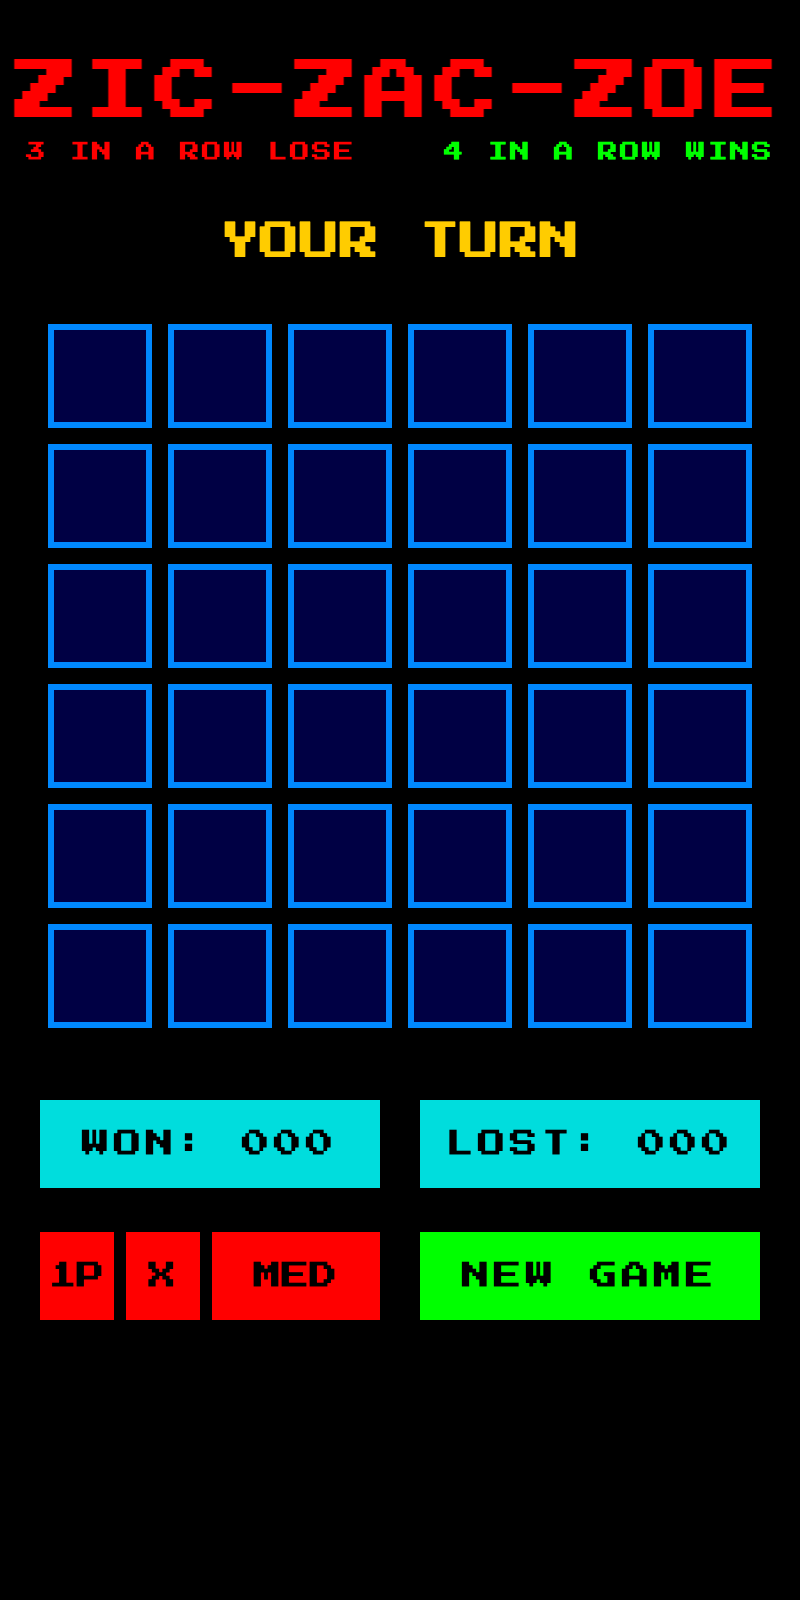
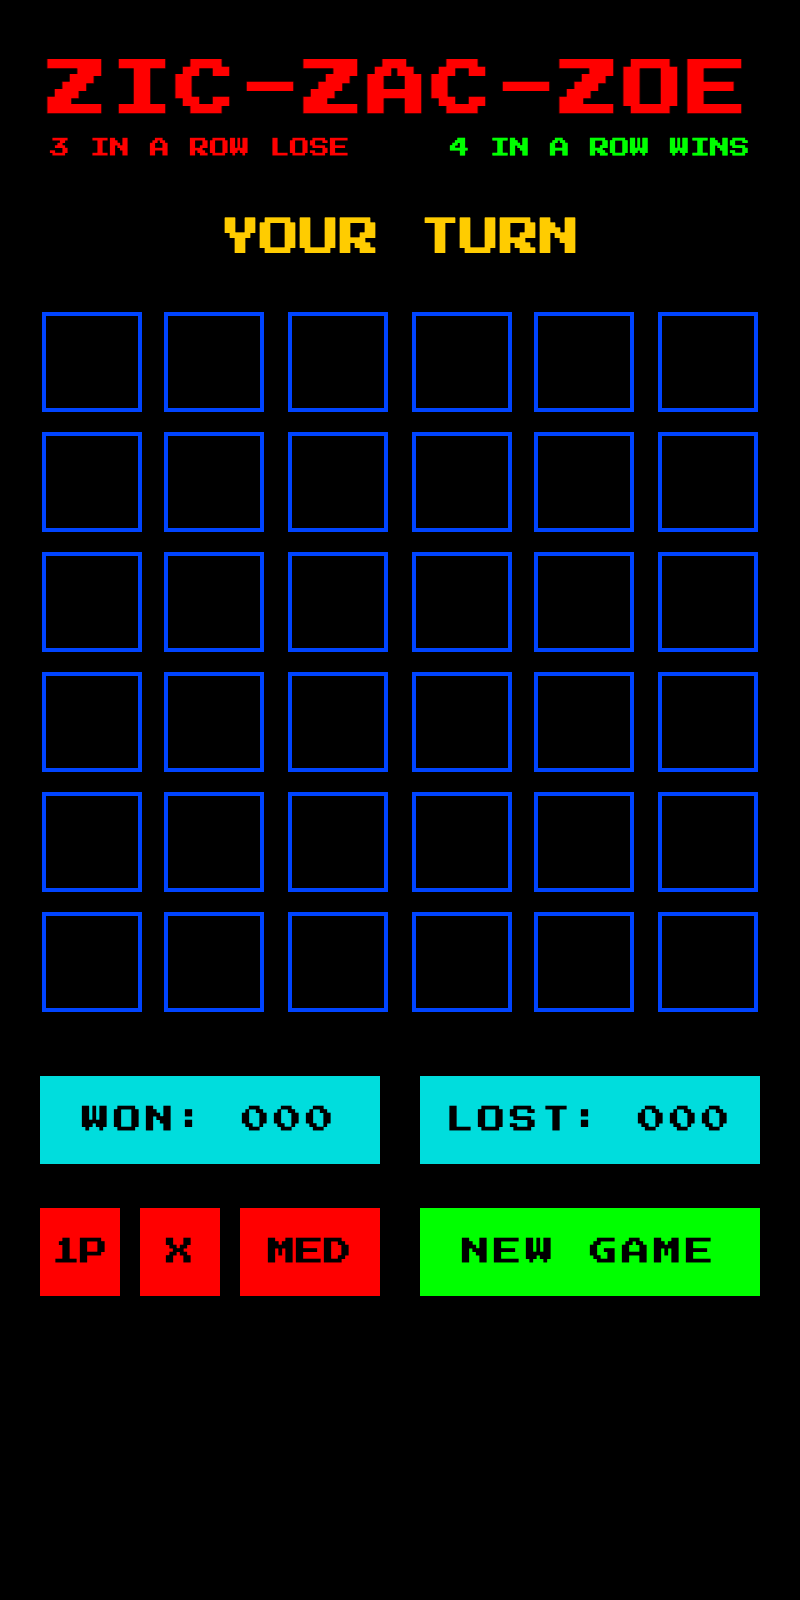
buard update for visual communication of game state; minor layout tweaks

diff --git a/web/style.css b/web/style.css
@@ -16,11 +16,10 @@
   --color-turn: #ffcc00;
   --color-dim: #444444;
   --color-dim-light: #666666;
-  --color-cell-bg: #000044;
-  --color-cell-border: #0088ff;
+  --color-cell-bg: #000000;
+  --color-cell-border: #0044ff;
   --color-x: #00ffff;
   --color-o: #ffff00;
-  --color-btn-green: #00cc00;
   --color-stats-bg: #00dddd;
   --color-stats-text: #000000;
   --color-mode-icon: #ff0000;
@@ -66,19 +65,20 @@ body {
 
 .header {
   text-align: center;
+  width: 360px;
 }
 
 .title {
-  font-size: 32px;
+  font-size: 30px;
   color: var(--color-title);
-  letter-spacing: 3px;
+  letter-spacing: 2px;
   white-space: nowrap;
 }
 
 .subtitle {
   font-size: 10px;
   margin-top: 6px;
-  letter-spacing: 1px;
+  letter-spacing: 0px;
   line-height: 1.6;
   white-space: nowrap;
 }
@@ -97,12 +97,14 @@ body {
 
 .status {
   font-size: 20px;
-  min-height: 50px;
+  height: 50px;
+  width: 360px;
   display: flex;
   align-items: center;
   justify-content: center;
   text-align: center;
-  padding: 8px;
+  box-sizing: border-box;
+  overflow: hidden;
 }
 
 .status.your-turn {
@@ -159,27 +161,27 @@ body {
 .board {
   display: grid;
   grid-template-columns: repeat(6, 1fr);
-  gap: 0;
+  gap: 10px;
   width: 360px;
-  height: 360px;
   justify-items: center;
   align-items: center;
 }
 
 .cell {
-  width: 52px;
-  height: 52px;
+  width: 50px;
+  height: 50px;
   background-color: var(--color-cell-bg);
-  border: 3px solid var(--color-cell-border);
+  border: 2px solid var(--color-cell-border);
   display: flex;
   align-items: center;
   justify-content: center;
-  font-size: 28px;
+  font-size: 32px;
   line-height: 1;
   cursor: pointer;
   transition: all 0.15s ease;
   user-select: none;
   -webkit-tap-highlight-color: transparent;
+  box-sizing: border-box;
 }
 
 .cell:hover:not(.occupied):not(.game-over) {
@@ -205,6 +207,11 @@ body {
   display: flex;
   align-items: center;
   justify-content: center;
+  width: 100%;
+  height: 100%;
+  padding-top: 4px;
+  padding-left: 4px;
+  box-sizing: border-box;
 }
 
 .cell .piece.x {
@@ -215,18 +222,69 @@ body {
   color: var(--color-o);
 }
 
-/* Cell highlighting - placeholder for game state visuals (TBD) */
-.cell.last-move {
-  /* TBD */
+/* Cell highlighting for last move */
+.cell.last-move-x {
+  border-color: var(--color-x);
 }
 
-.cell.win-highlight .piece {
-  color: var(--color-win);
+.cell.last-move-o {
+  border-color: var(--color-o);
 }
 
-.cell.lose-highlight .piece {
-  color: var(--color-lose);
+/* Game end highlights - border colors */
+.cell.end-green {
+  border-color: var(--color-win);
 }
+
+.cell.end-red {
+  border-color: var(--color-lose);
+}
+
+.cell.end-x {
+  border-color: var(--color-x);
+}
+
+.cell.end-o {
+  border-color: var(--color-o);
+}
+
+/* Checkmate crux cell blinking (1Hz = 1s period, same as scoreboard) */
+.cell.end-green.crux-blink {
+  animation: crux-blink-green 1s step-end infinite;
+}
+
+.cell.end-red.crux-blink {
+  animation: crux-blink-red 1s step-end infinite;
+}
+
+.cell.end-x.crux-blink {
+  animation: crux-blink-x 1s step-end infinite;
+}
+
+.cell.end-o.crux-blink {
+  animation: crux-blink-o 1s step-end infinite;
+}
+
+@keyframes crux-blink-green {
+  0%, 50% { border-color: var(--color-win); }
+  50.01%, 100% { border-color: var(--color-cell-border); }
+}
+
+@keyframes crux-blink-red {
+  0%, 50% { border-color: var(--color-lose); }
+  50.01%, 100% { border-color: var(--color-cell-border); }
+}
+
+@keyframes crux-blink-x {
+  0%, 50% { border-color: var(--color-x); }
+  50.01%, 100% { border-color: var(--color-cell-border); }
+}
+
+@keyframes crux-blink-o {
+  0%, 50% { border-color: var(--color-o); }
+  50.01%, 100% { border-color: var(--color-cell-border); }
+}
+
 
 /* =============================================================================
    Stats Boxes (below board)
@@ -269,7 +327,7 @@ body {
   50.01%, 100% {
     background-color: var(--color-bg);
     color: var(--color-stats-bg);
-    border-color: var(--color-stats-bg);
+    border-color: var(--color-bg);
   }
 }
 
@@ -302,7 +360,7 @@ body {
   align-items: stretch;
   width: 170px;
   height: 44px;
-  gap: 6px;
+  gap: 10px;
   box-sizing: border-box;
 }
 
@@ -341,12 +399,12 @@ body {
 /* Make mode and player buttons narrower */
 #btn-mode,
 #btn-player {
-  flex: 0.7;
+  flex: 0.8;
 }
 
-/* Give difficulty button more space for 4-char text */
+/* Difficulty button - tighter fit for 4-char text */
 #btn-difficulty {
-  flex: 1.6;
+  flex: 1.4;
 }
 
 .btn-setting:hover {
@@ -366,6 +424,7 @@ body {
   width: 170px;
   height: 44px;
   padding: 0;
+  border: none;
   font-size: 14px;
   letter-spacing: 2px;
   white-space: nowrap;
@@ -377,6 +436,13 @@ body {
 
 .btn-new-game:hover {
   filter: brightness(1.1);
+}
+
+/* Remove focus outline on all buttons */
+.btn:focus,
+.btn-setting:focus,
+.btn-new-game:focus {
+  outline: none;
 }
 
 /* =============================================================================

diff --git a/web/src/main.ts b/web/src/main.ts
@@ -199,22 +199,60 @@ function createBoardCells(): void {
 function renderBoard(): void {
   const cells = boardEl.querySelectorAll(".cell");
 
-  // Pre-compute checkmate highlight info (avoid recomputing per cell)
-  let checkmateHighlightClass: string | null = null;
-  let checkmateIndices: Set<number> | null = null;
+  // Pre-compute game end highlight info
+  let endHighlightClass: string | null = null;
+  let endIndices: Set<number> | null = null;
+  let cruxIndices: Set<number> | null = null;
+
+  if (state.gameOver && state.result) {
+    const { result } = state.result;
+    if (result !== GameResult.Draw) {
+      const winner = result === GameResult.XWins ? Player.X : Player.O;
+
+      // Determine highlight class based on mode
+      if (isTwoPlayerMode()) {
+        // 2P: winner's color
+        endHighlightClass = winner === Player.X ? "end-x" : "end-o";
+      } else {
+        // 1P: green if human wins, red if AI wins
+        const humanWins = winner === state.humanPlayer;
+        endHighlightClass = humanWins ? "end-green" : "end-red";
+      }
+
+      // Collect indices that ended the game
+      endIndices = new Set([
+        ...state.result.winningIndices,
+        ...state.result.losingIndices,
+      ]);
+    }
+  }
+
+  // For checkmate, find crux cells (empty cells in the threat/suicide patterns)
   if (state.checkmate?.isCheckmate) {
-    // In 2-player mode, use winner's color; in vs AI mode, use win/lose
+    const winner = state.checkmate.loser === Player.X ? Player.O : Player.X;
+
+    // Determine highlight class for checkmate patterns
     if (isTwoPlayerMode()) {
-      const winner = state.checkmate.loser === Player.X ? Player.O : Player.X;
-      checkmateHighlightClass = winner === Player.X ? "checkmate-win-highlight" : "checkmate-lose-highlight";
+      endHighlightClass = winner === Player.X ? "end-x" : "end-o";
     } else {
       const humanWins = state.checkmate.loser !== state.humanPlayer;
-      checkmateHighlightClass = humanWins ? "checkmate-win-highlight" : "checkmate-lose-highlight";
+      endHighlightClass = humanWins ? "end-green" : "end-red";
     }
-    // Flatten all pattern indices into a Set for O(1) lookup
-    checkmateIndices = new Set(
+
+    // Collect all cells in checkmate patterns
+    endIndices = new Set(
       [...state.checkmate.threatPatterns, ...state.checkmate.suicidePatterns].flat()
     );
+
+    // Find crux cells - empty cells that would complete patterns
+    cruxIndices = new Set<number>();
+    for (const pattern of [...state.checkmate.threatPatterns, ...state.checkmate.suicidePatterns]) {
+      for (const idx of pattern) {
+        if (state.board[idx] === Player.Empty) {
+          cruxIndices.add(idx);
+        }
+      }
+    }
   }
 
   cells.forEach((cell, i) => {
@@ -224,11 +262,13 @@ function renderBoard(): void {
     // Clear classes
     el.classList.remove(
       "occupied",
-      "last-move",
-      "win-highlight",
-      "lose-highlight",
-      "checkmate-win-highlight",
-      "checkmate-lose-highlight",
+      "last-move-x",
+      "last-move-o",
+      "end-green",
+      "end-red",
+      "end-x",
+      "end-o",
+      "crux-blink",
       "game-over"
     );
 
@@ -251,29 +291,24 @@ function renderBoard(): void {
       el.classList.add("occupied");
     }
 
-    // Highlight last move
-    if (i === state.lastMove) {
-      el.classList.add("last-move");
+    // Highlight last move with player's color (only during game, not at end)
+    if (i === state.lastMove && piece !== Player.Empty && !state.gameOver) {
+      el.classList.add(piece === Player.X ? "last-move-x" : "last-move-o");
     }
 
     // Game over state
     if (state.gameOver) {
       el.classList.add("game-over");
-    }
 
-    // Win/lose highlights
-    if (state.result) {
-      if (state.result.winningIndices.includes(i)) {
-        el.classList.add("win-highlight");
-      }
-      if (state.result.losingIndices.includes(i)) {
-        el.classList.add("lose-highlight");
-      }
-    }
+      // Apply end highlight to cells that ended the game
+      if (endHighlightClass && endIndices?.has(i)) {
+        el.classList.add(endHighlightClass);
 
-    // Checkmate highlights (O(1) lookup via Set)
-    if (checkmateHighlightClass && checkmateIndices?.has(i)) {
-      el.classList.add(checkmateHighlightClass);
+        // Add blinking for crux cells in checkmate
+        if (cruxIndices?.has(i)) {
+          el.classList.add("crux-blink");
+        }
+      }
     }
   });
 }

diff --git a/web/index.html b/web/index.html
@@ -15,7 +15,7 @@
         <h1 class="title">ZIC-ZAC-ZOE</h1>
         <p class="subtitle">
           <span class="subtitle-lose">3 IN A ROW LOSE</span>
-          &nbsp;&nbsp;
+          &nbsp;&nbsp;&nbsp;
           <span class="subtitle-win">4 IN A ROW WINS</span>
         </p>
       </header>
